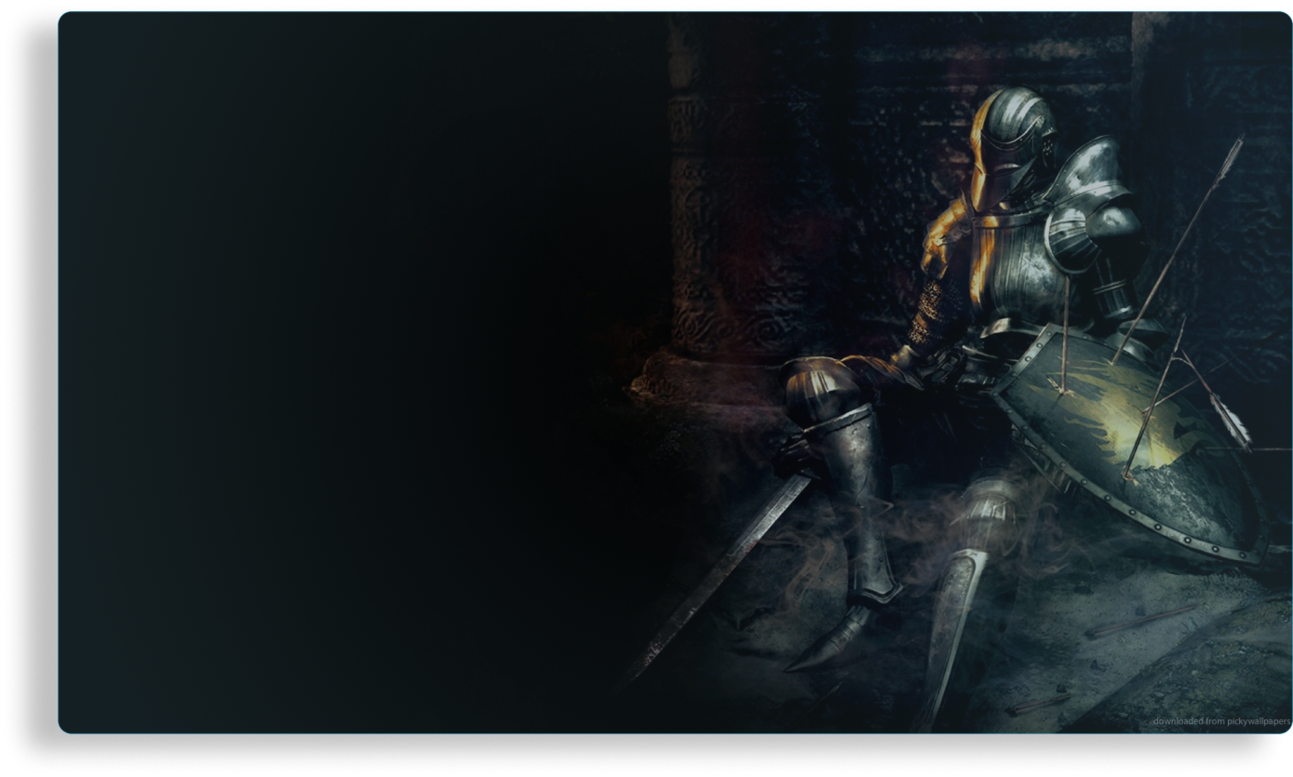
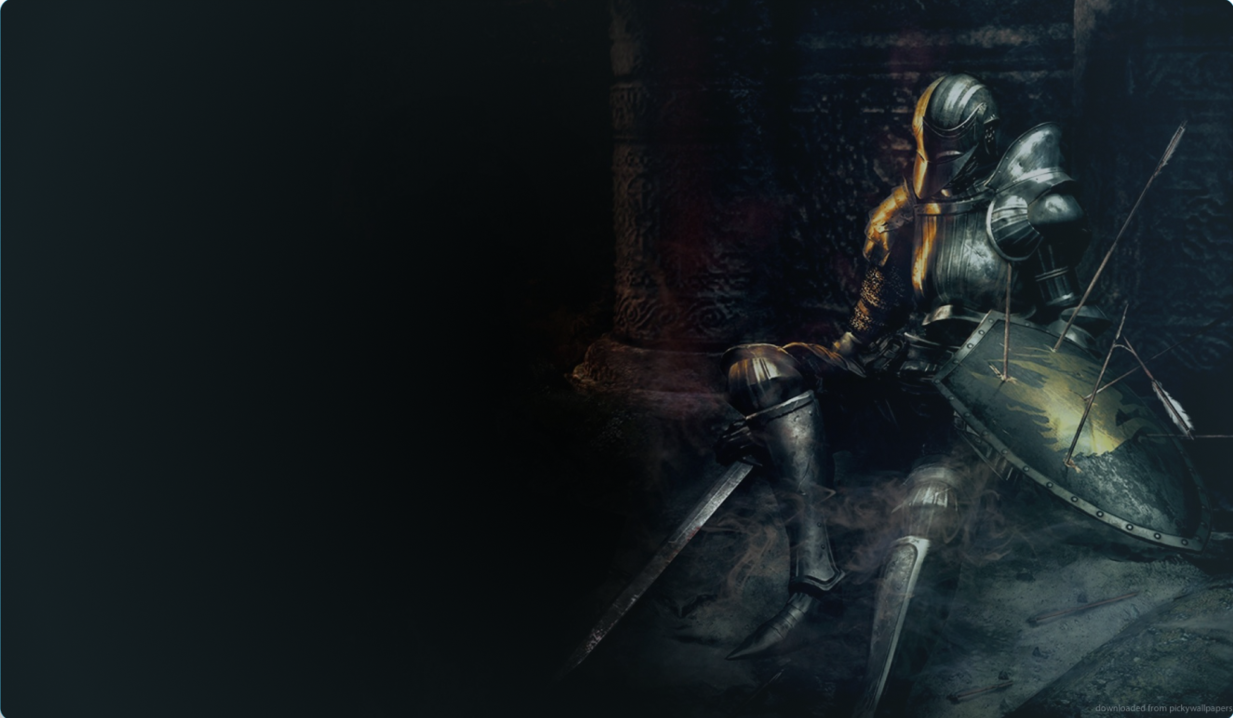
feat: add adaptivity to not found page

diff --git a/404.scss b/404.scss
@@ -58,16 +58,19 @@ body {
 }
 
 .not_found {
+    display: flex;
     position: relative;
+    align-items: center;
+    justify-content: center;
     top: 160px;
     background-image: url('./src/assets/images/not-found.png');
     background-repeat: no-repeat;
-    width: 1327px;
-    height: 777px;
+    width: 1233px;
+    height: 718px;
     font-family: 'Aire Exterior';
-    display: flex;
-    align-items: center;
-    justify-content: center;
+    border: 3px solid $BLUE;
+    border-radius: 10px;
+    box-shadow: 0px 17px 29px $BLUE;
 }
 
 .not_found__content {
@@ -91,8 +94,47 @@ body {
 .not_found__content__small_text {
     font-family: 'Roboto';
     font-size: 16px;
+    text-align: center;
 }
 
 .not_found__content__pic {
     margin-top: 45px;
+}
+
+@media (max-width: 1440px) {
+    .not_found {
+        top: 60px;
+        width: 630px;
+        height: 720px;
+        border: 3px solid $BLUE;
+        background-image: url('./src/assets/images/not-found-tablet.png');
+        border-radius: 10px;
+        .not_found__content {
+            width: 600px;
+        }
+        .not_found__content__info {
+            font-size: 36px;
+        }
+    }
+}
+
+@media (max-width: 640px) {
+    .not_found {
+        top: 60px;
+        width: 305px;
+        height: 600px;
+        border: 3px solid $BLUE;
+        background-image: url('./src/assets/images/not-found-mobile.png');
+        border-radius: 10px;
+        .not_found__content {
+            width: 600px;
+        }
+        .not_found__content__info {
+            font-size: 24px;
+        }
+        .not_found__content__small_text {
+            width: 250px;
+            font-size: 14px;
+        }
+    }
 }

diff --git a/404.css b/404.css
@@ -44,16 +44,19 @@ body {
 }
 
 .not_found {
+  display: flex;
   position: relative;
+  align-items: center;
+  justify-content: center;
   top: 160px;
   background-image: url("./src/assets/images/not-found.png");
   background-repeat: no-repeat;
-  width: 1327px;
-  height: 777px;
+  width: 1233px;
+  height: 718px;
   font-family: "Aire Exterior";
-  display: flex;
-  align-items: center;
-  justify-content: center;
+  border: 3px solid #00c5ff;
+  border-radius: 10px;
+  box-shadow: 0px 17px 29px #00c5ff;
 }
 
 .not_found__content {
@@ -77,8 +80,46 @@ body {
 .not_found__content__small_text {
   font-family: "Roboto";
   font-size: 16px;
+  text-align: center;
 }
 
 .not_found__content__pic {
   margin-top: 45px;
+}
+
+@media (max-width: 1440px) {
+  .not_found {
+    top: 60px;
+    width: 630px;
+    height: 720px;
+    border: 3px solid #00c5ff;
+    background-image: url("./src/assets/images/not-found-tablet.png");
+    border-radius: 10px;
+  }
+  .not_found .not_found__content {
+    width: 600px;
+  }
+  .not_found .not_found__content__info {
+    font-size: 36px;
+  }
+}
+@media (max-width: 640px) {
+  .not_found {
+    top: 60px;
+    width: 305px;
+    height: 600px;
+    border: 3px solid #00c5ff;
+    background-image: url("./src/assets/images/not-found-mobile.png");
+    border-radius: 10px;
+  }
+  .not_found .not_found__content {
+    width: 600px;
+  }
+  .not_found .not_found__content__info {
+    font-size: 24px;
+  }
+  .not_found .not_found__content__small_text {
+    width: 250px;
+    font-size: 14px;
+  }
 }/*# sourceMappingURL=404.css.map */

diff --git a/404.html b/404.html
@@ -15,7 +15,7 @@
             <p class="not_found__content__info">Спасаясь от гоблинов в какой то момент вы поняли что потерялись. Попытка найти выход из этих бесконечных коридоров не увенчалась успехом. </p>
             <p class="not_found__content__info">Всюду на стенах вы видите странные надписи 404. Вас не покидет стойкое ощущение что всего этого не существует.</p>
             <p class="not_found__content__small_text">Данной страницы не существет, но вы можете использоть свиток телепортации что бы вернуться на главную.</p>
-            <img src="./src/assets/images/scroll.svg" alt="scroll" class="not_found__content__pic" width="100" heigh="100">
+            <img src="./src/assets/images/scroll.svg" alt="scroll" class="not_found__content__pic" width="60" heigh="60">
         </div>
     </section>
 </body>
